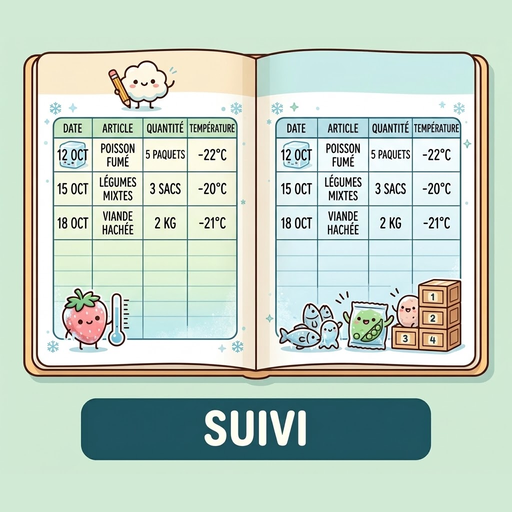
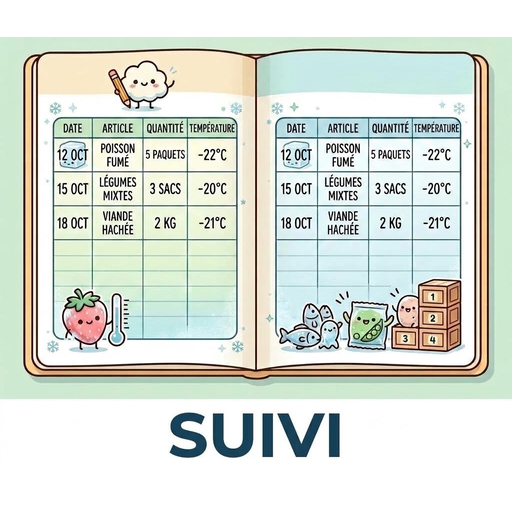
feat: nouveau visuel Suivi, et le bouton Retour devient visible et atteignable
Visuel Suivi mis à jour par Lénaïc. Recadré comme le précédent : son
bandeau du haut annonce « cahier de suivi de CONGÉLATION », alors que
cette section porte aussi la surgélation du poisson et la traçabilité —
un titre qui n'annonce qu'un tiers du contenu dessert un registre censé
faire preuve. Remis au carré sur le blanc du bas pour s'afficher
exactement comme Stock.

Bouton Retour : c'était une flèche nue d'environ 30 px. Peu visible, et
surtout SOUS le minimum tactile d'iOS (44 px) — donc difficile à viser
d'un pouce, en cuisine, avec les mains occupées. Devenu une pilule de
44 px qui nomme l'action, conforme à la charte. La flèche y reste : elle
indique une direction, elle n'est pas décorative.

En-têtes simplifiés du même coup : le titre pousse désormais le bouton
d'envoi vers la droite, les trois cales vides qui servaient à équilibrer
sont supprimées, et un titre trop long se tronque au lieu de chasser les
boutons hors de l'écran.

Claude-Session: https://claude.ai/code/session_014qU427z5gzvDvYT3tww4Wh

Changed region(s): [[0.0, 0.75, 1.0, 1.0], [0.0, 0.0, 1.0, 0.0938]]

diff --git a/index.html b/index.html
@@ -543,10 +543,23 @@
         /* === LISTE DE PRODUITS === */
         .page-header {
             display: flex;
-            justify-content: space-between;
             align-items: center;
+            gap: 12px;
             margin-bottom: 20px;
             padding-top: 10px;
+        }
+
+        /* Le titre pousse le bouton d'action éventuel vers la droite : plus
+           besoin de cales vides pour équilibrer l'en-tête. */
+        .page-header .page-title {
+            flex: 1;
+            min-width: 0;
+            /* Avec la pilule Retour à gauche et un bouton d'envoi à droite,
+               un titre long doit se tronquer proprement plutôt que de
+               pousser les boutons hors de l'écran. */
+            white-space: nowrap;
+            overflow: hidden;
+            text-overflow: ellipsis;
         }
 
         .page-title {
@@ -556,14 +569,39 @@
             color: #088F8F;
         }
 
+        /* C'était une flèche nue de 30 px : peu visible, et surtout sous le
+           minimum tactile d'iOS (44 px), donc difficile à viser d'un pouce
+           en cuisine. Devenue une pilule qui NOMME l'action, conformément à
+           la charte — la flèche y reste car elle indique une direction, elle
+           n'est pas décorative. */
         .back-button {
-            background: none;
+            display: inline-flex;
+            align-items: center;
+            gap: 6px;
+            flex: none;
+            min-height: 44px;
+            padding: 0 16px 0 12px;
+            background: #e0f0f0;
             border: none;
-            color: #088F8F;
+            border-radius: 999px;
+            color: #076f6f;
             cursor: pointer;
-            font-size: 1.5rem;
-            padding: 5px 10px;
+            font-family: 'Outfit', -apple-system, BlinkMacSystemFont, sans-serif;
+            font-size: .78rem;
+            font-weight: 700;
+            letter-spacing: .06em;
+            text-transform: uppercase;
+            -webkit-tap-highlight-color: transparent;
         }
+
+        .back-button::before {
+            content: '←';
+            font-size: 1.15rem;
+            line-height: 1;
+            font-weight: 400;
+        }
+
+        .back-button:active { background: #cbe4e4; }
 
         .search-box {
             margin-bottom: 20px;
@@ -1701,9 +1739,8 @@
         <!-- PAGE STOCK — les six catégories de produits -->
         <div id="stock-page" class="page">
             <div class="page-header">
-                <button id="back-to-home-stock" class="back-button">←</button>
+                <button id="back-to-home-stock" class="back-button">Retour</button>
                 <h2 class="page-title">Stock</h2>
-                <div style="width: 30px;"></div>
             </div>
             <div class="categories-grid" id="grille-stock"></div>
         </div>
@@ -1711,9 +1748,8 @@
         <!-- PAGE SUIVI — les trois registres qui font foi dans le temps -->
         <div id="suivi-page" class="page">
             <div class="page-header">
-                <button id="back-to-home-suivi" class="back-button">←</button>
+                <button id="back-to-home-suivi" class="back-button">Retour</button>
                 <h2 class="page-title">Suivi</h2>
-                <div style="width: 30px;"></div>
             </div>
             <div class="categories-grid" id="grille-suivi"></div>
         </div>
@@ -1721,9 +1757,8 @@
         <!-- PAGE DE PRODUITS -->
         <div id="products-page" class="page">
             <div class="page-header">
-                <button id="back-to-home" class="back-button">←</button>
+                <button id="back-to-home" class="back-button">Retour</button>
                 <h2 class="page-title" id="category-title">Produits</h2>
-                <div style="width: 30px;"></div>
             </div>
             <div class="search-box">
                 <input type="text" class="search-input" id="product-search" placeholder="Rechercher un produit...">
@@ -1744,7 +1779,7 @@
         <!-- PAGE CONGÉLATION -->
         <div id="frozen-page" class="page">
             <div class="page-header">
-                <button id="back-to-home-frozen" class="back-button">←</button>
+                <button id="back-to-home-frozen" class="back-button">Retour</button>
                 <h2 class="page-title">🧊 Sushi frit</h2>
                 <button class="btn btn-small" id="export-frozen-btn">📤</button>
             </div>
@@ -1778,7 +1813,7 @@
         <!-- PAGE SURGÉLATION DU POISSON -->
         <div id="fish-page" class="page">
             <div class="page-header">
-                <button id="back-to-home-fish" class="back-button">←</button>
+                <button id="back-to-home-fish" class="back-button">Retour</button>
                 <h2 class="page-title">🐟 Surgélation</h2>
                 <button class="btn btn-small" id="export-fish-btn">📤</button>
             </div>
@@ -1812,7 +1847,7 @@
         <!-- PAGE TRAÇABILITÉ (RÉCEPTIONS) -->
         <div id="tracabilite-page" class="page">
             <div class="page-header">
-                <button id="back-to-home-tracabilite" class="back-button">←</button>
+                <button id="back-to-home-tracabilite" class="back-button">Retour</button>
                 <h2 class="page-title">📋 Traçabilité</h2>
                 <button class="btn btn-small" id="export-reception-btn">📤</button>
             </div>
@@ -2341,8 +2376,8 @@
     <div id="product-menu-backdrop"></div>
 
     <!-- SCRIPTS -->
-<script src="config.js?v=20261003"></script>
-    <script src="database.js?v=20261003"></script>
-    <script src="app.js?v=20261003"></script>
+<script src="config.js?v=20261004"></script>
+    <script src="database.js?v=20261004"></script>
+    <script src="app.js?v=20261004"></script>
 </body>
 </html>
